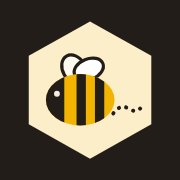
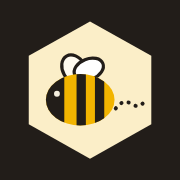
Sharper lane question, 'None of these fit', and 'What fixed it?' on saved troubleshoots
- Lane question now has a cut-membrane option and pushes the right causes
  for saturation (all lanes: exposure/antibody; some lanes: loading)
- Every question offers 'None of these fit', which changes nothing
- Saved troubleshoots can record what actually fixed the problem
- Buzz trail centred on the lower half of the tail

Claude-Session: https://claude.ai/code/session_018z6rVaDbAZwchyhegu3w2y

Changed region(s): [[0.6111, 0.5556, 0.8056, 0.6389]]

diff --git a/index.html b/index.html
@@ -22,7 +22,7 @@
 <section class="welcome" id="welcome" aria-labelledby="wtitle">
   <button class="theme-btn" type="button" aria-label="Switch theme"></button>
   <div class="welcome-inner">
-    <svg viewBox="0 0 60 60" class="welcome-logo" aria-hidden="true"><defs><clipPath id="beebody2"><ellipse cx="26" cy="34" rx="14" ry="10.5"/></clipPath></defs><polygon points="30,2 55,16 55,44 30,58 5,44 5,16" style="fill:#FBEEC8"/><g class="bob"><path class="buzz" d="M39.5 39.5 q3 -4 6 -2 t5 0" fill="none" style="stroke:#221D19" stroke-width="1.6" stroke-linecap="round" stroke-dasharray="0.1 3"/><ellipse cx="23.5" cy="21.5" rx="4.6" ry="6.2" transform="rotate(-30 23.5 21.5)" style="fill:#FFFFFF;stroke:#221D19" fill-opacity=".7" stroke-width="1.3"/><ellipse cx="29.5" cy="21.5" rx="6.2" ry="4.2" transform="rotate(-22 29.5 21.5)" style="fill:#FFFFFF;stroke:#221D19" stroke-width="1.3"/><g clip-path="url(#beebody2)"><rect x="10" y="22" width="32" height="24" style="fill:#F2B400"/><rect x="10" y="22" width="9.5" height="24" style="fill:#221D19"/><rect x="24.5" y="22" width="3.8" height="24" style="fill:#221D19"/><rect x="32" y="22" width="3.8" height="24" style="fill:#221D19"/></g><circle cx="16.5" cy="31.5" r="1.2" style="fill:#F4EEDF"/></g></svg>
+    <svg viewBox="0 0 60 60" class="welcome-logo" aria-hidden="true"><defs><clipPath id="beebody2"><ellipse cx="26" cy="34" rx="14" ry="10.5"/></clipPath></defs><polygon points="30,2 55,16 55,44 30,58 5,44 5,16" style="fill:#FBEEC8"/><g class="bob"><path class="buzz" d="M40.5 37.5 q3 -4 6 -2 t5 0" fill="none" style="stroke:#221D19" stroke-width="1.6" stroke-linecap="round" stroke-dasharray="0.1 3"/><ellipse cx="23.5" cy="21.5" rx="4.6" ry="6.2" transform="rotate(-30 23.5 21.5)" style="fill:#FFFFFF;stroke:#221D19" fill-opacity=".7" stroke-width="1.3"/><ellipse cx="29.5" cy="21.5" rx="6.2" ry="4.2" transform="rotate(-22 29.5 21.5)" style="fill:#FFFFFF;stroke:#221D19" stroke-width="1.3"/><g clip-path="url(#beebody2)"><rect x="10" y="22" width="32" height="24" style="fill:#F2B400"/><rect x="10" y="22" width="9.5" height="24" style="fill:#221D19"/><rect x="24.5" y="22" width="3.8" height="24" style="fill:#221D19"/><rect x="32" y="22" width="3.8" height="24" style="fill:#221D19"/></g><circle cx="16.5" cy="31.5" r="1.2" style="fill:#F4EEDF"/></g></svg>
     <h1 id="wtitle">Bench <span>Bee</span></h1>
     <p class="tag">A little buzz of help at the bench.</p>
     <div class="tech-pick" role="group" aria-label="Choose a technique">
@@ -37,7 +37,7 @@
 
 <div class="wrap" hidden>
   <header class="appbar">
-    <a class="homelink" href="#" aria-label="Back to start"><svg viewBox="0 0 60 60" aria-hidden="true"><defs><clipPath id="beebody"><ellipse cx="26" cy="34" rx="14" ry="10.5"/></clipPath></defs><polygon points="30,2 55,16 55,44 30,58 5,44 5,16" style="fill:#FBEEC8"/><path d="M39.5 39.5 q3 -4 6 -2 t5 0" fill="none" style="stroke:#221D19" stroke-width="1.6" stroke-linecap="round" stroke-dasharray="0.1 3"/><ellipse cx="23.5" cy="21.5" rx="4.6" ry="6.2" transform="rotate(-30 23.5 21.5)" style="fill:#FFFFFF;stroke:#221D19" fill-opacity=".7" stroke-width="1.3"/><ellipse cx="29.5" cy="21.5" rx="6.2" ry="4.2" transform="rotate(-22 29.5 21.5)" style="fill:#FFFFFF;stroke:#221D19" stroke-width="1.3"/><g clip-path="url(#beebody)"><rect x="10" y="22" width="32" height="24" style="fill:#F2B400"/><rect x="10" y="22" width="9.5" height="24" style="fill:#221D19"/><rect x="24.5" y="22" width="3.8" height="24" style="fill:#221D19"/><rect x="32" y="22" width="3.8" height="24" style="fill:#221D19"/></g><circle cx="16.5" cy="31.5" r="1.2" style="fill:#F4EEDF"/></svg><span class="appname">Bench <span>Bee</span></span></a>
+    <a class="homelink" href="#" aria-label="Back to start"><svg viewBox="0 0 60 60" aria-hidden="true"><defs><clipPath id="beebody"><ellipse cx="26" cy="34" rx="14" ry="10.5"/></clipPath></defs><polygon points="30,2 55,16 55,44 30,58 5,44 5,16" style="fill:#FBEEC8"/><path d="M40.5 37.5 q3 -4 6 -2 t5 0" fill="none" style="stroke:#221D19" stroke-width="1.6" stroke-linecap="round" stroke-dasharray="0.1 3"/><ellipse cx="23.5" cy="21.5" rx="4.6" ry="6.2" transform="rotate(-30 23.5 21.5)" style="fill:#FFFFFF;stroke:#221D19" fill-opacity=".7" stroke-width="1.3"/><ellipse cx="29.5" cy="21.5" rx="6.2" ry="4.2" transform="rotate(-22 29.5 21.5)" style="fill:#FFFFFF;stroke:#221D19" stroke-width="1.3"/><g clip-path="url(#beebody)"><rect x="10" y="22" width="32" height="24" style="fill:#F2B400"/><rect x="10" y="22" width="9.5" height="24" style="fill:#221D19"/><rect x="24.5" y="22" width="3.8" height="24" style="fill:#221D19"/><rect x="32" y="22" width="3.8" height="24" style="fill:#221D19"/></g><circle cx="16.5" cy="31.5" r="1.2" style="fill:#F4EEDF"/></svg><span class="appname">Bench <span>Bee</span></span></a>
     <span class="tech-chip">Western blot</span>
     <a class="icon-btn" href="#saved" aria-label="Saved troubleshoots"><svg viewBox="0 0 24 24" fill="none" stroke="currentColor" stroke-width="2" stroke-linejoin="round" aria-hidden="true"><path d="M6 3.5h12v17l-6-4-6 4z"/></svg></a>
     <button class="theme-btn" type="button" aria-label="Switch theme"></button>
@@ -78,7 +78,7 @@
 
 <section class="saved-view wrap-saved" id="savedView" hidden aria-labelledby="savedTitle">
   <header class="appbar">
-    <a class="homelink" href="#" aria-label="Back to start"><svg viewBox="0 0 60 60" aria-hidden="true"><defs><clipPath id="beebody3"><ellipse cx="26" cy="34" rx="14" ry="10.5"/></clipPath></defs><polygon points="30,2 55,16 55,44 30,58 5,44 5,16" style="fill:#FBEEC8"/><path d="M39.5 39.5 q3 -4 6 -2 t5 0" fill="none" style="stroke:#221D19" stroke-width="1.6" stroke-linecap="round" stroke-dasharray="0.1 3"/><ellipse cx="23.5" cy="21.5" rx="4.6" ry="6.2" transform="rotate(-30 23.5 21.5)" style="fill:#FFFFFF;stroke:#221D19" fill-opacity=".7" stroke-width="1.3"/><ellipse cx="29.5" cy="21.5" rx="6.2" ry="4.2" transform="rotate(-22 29.5 21.5)" style="fill:#FFFFFF;stroke:#221D19" stroke-width="1.3"/><g clip-path="url(#beebody3)"><rect x="10" y="22" width="32" height="24" style="fill:#F2B400"/><rect x="10" y="22" width="9.5" height="24" style="fill:#221D19"/><rect x="24.5" y="22" width="3.8" height="24" style="fill:#221D19"/><rect x="32" y="22" width="3.8" height="24" style="fill:#221D19"/></g><circle cx="16.5" cy="31.5" r="1.2" style="fill:#F4EEDF"/></svg><span class="appname">Bench <span>Bee</span></span></a>
+    <a class="homelink" href="#" aria-label="Back to start"><svg viewBox="0 0 60 60" aria-hidden="true"><defs><clipPath id="beebody3"><ellipse cx="26" cy="34" rx="14" ry="10.5"/></clipPath></defs><polygon points="30,2 55,16 55,44 30,58 5,44 5,16" style="fill:#FBEEC8"/><path d="M40.5 37.5 q3 -4 6 -2 t5 0" fill="none" style="stroke:#221D19" stroke-width="1.6" stroke-linecap="round" stroke-dasharray="0.1 3"/><ellipse cx="23.5" cy="21.5" rx="4.6" ry="6.2" transform="rotate(-30 23.5 21.5)" style="fill:#FFFFFF;stroke:#221D19" fill-opacity=".7" stroke-width="1.3"/><ellipse cx="29.5" cy="21.5" rx="6.2" ry="4.2" transform="rotate(-22 29.5 21.5)" style="fill:#FFFFFF;stroke:#221D19" stroke-width="1.3"/><g clip-path="url(#beebody3)"><rect x="10" y="22" width="32" height="24" style="fill:#F2B400"/><rect x="10" y="22" width="9.5" height="24" style="fill:#221D19"/><rect x="24.5" y="22" width="3.8" height="24" style="fill:#221D19"/><rect x="32" y="22" width="3.8" height="24" style="fill:#221D19"/></g><circle cx="16.5" cy="31.5" r="1.2" style="fill:#F4EEDF"/></svg><span class="appname">Bench <span>Bee</span></span></a>
     <button class="theme-btn" type="button" aria-label="Switch theme"></button>
   </header>
   <div class="sec-head">

diff --git a/app.js b/app.js
@@ -248,6 +248,7 @@ function evaluate() {
     (fits[cid] = fits[cid] || []).push(sy.name);
   }));
   validAnswers().forEach(qid => {
+    if (state.answers[qid] < 0) return; // "None of these fit" changes nothing
     const o = Q[qid].opts[state.answers[qid]];
     Object.entries(o.e).forEach(([cid, v]) => {
       if (!(cid in sc)) return;
@@ -333,6 +334,8 @@ function renderBench() {
   renderQuestion(); renderHistory(); renderCauses();
 }
 
+const ansLabel = qid => state.answers[qid] < 0 ? "None of these fit" : Q[qid].opts[state.answers[qid]].l;
+
 function answer(qid, oi) {
   state.answers[qid] = oi;
   state.order = state.order.filter(q => q !== qid).concat(qid);
@@ -362,7 +365,8 @@ function renderQuestion() {
       <span class="label">Question ${n}</span>
       <p class="qtext">${q.q}</p>
       ${q.tip ? `<p class="qtip">${q.tip}</p>` : ""}
-      <div class="answers">${q.opts.map((o, oi) => `<button class="ans" type="button" data-o="${oi}">${o.l}</button>`).join("")}</div>
+      <div class="answers">${q.opts.map((o, oi) => `<button class="ans" type="button" data-o="${oi}">${o.l}</button>`).join("")}
+        <button class="ans nofit" type="button" data-o="-1">None of these fit</button></div>
       <div class="qnav">
         <button class="linkbtn" type="button" id="back" ${state.order.length ? "" : "disabled"}>← Back</button>
         <button class="linkbtn" type="button" id="skip">Skip, I don't know</button>
@@ -379,7 +383,7 @@ function renderQuestion() {
 function renderHistory() {
   const done = validAnswers();
   $("#history").innerHTML = done.length ? `<span class="label">Your answers</span>
-    <ol class="hist">${done.map(qid => `<li><span class="hq">${Q[qid].q}</span><span class="ha">${Q[qid].opts[state.answers[qid]].l}</span>
+    <ol class="hist">${done.map(qid => `<li><span class="hq">${Q[qid].q}</span><span class="ha">${ansLabel(qid)}</span>
       <button class="linkbtn" type="button" data-q="${qid}">Change</button></li>`).join("")}</ol>` : "";
   document.querySelectorAll(".hist .linkbtn").forEach(b => b.addEventListener("click", () => {
     const qid = b.dataset.q;
@@ -451,7 +455,7 @@ function renderCauses() {
 
 function copySummary() {
   const { live, ruled } = evaluate();
-  const ans = validAnswers().map(q => `- ${Q[q].q} ${Q[q].opts[state.answers[q]].l}`);
+  const ans = validAnswers().map(q => `- ${Q[q].q} ${ansLabel(q)}`);
   const txt = [
     `Western blot troubleshooting: ${selected().map(s => s.name).join(", ")}`,
     `Date: ${new Date().toLocaleDateString()}`,
@@ -488,6 +492,8 @@ function openSaveForm() {
       <input id="saveName" type="text" maxlength="80" value="${esc(name)}">
       <label for="saveNote">Note <span>(optional)</span></label>
       <textarea id="saveNote" rows="3" maxlength="600" placeholder="What did you try, what happened next?">${existing ? esc(existing.note || "") : ""}</textarea>
+      <label for="saveFix">What actually fixed it? <span>(fill in later if you don't know yet)</span></label>
+      <input id="saveFix" type="text" maxlength="200" placeholder="e.g. Fresh ECL, or diluted the secondary 1:10,000" value="${existing ? esc(existing.fix || "") : ""}">
       <div class="actions"><button class="btn save" type="submit">${existing ? "Update" : "Save"}</button><button class="btn ghost" type="button" id="saveCancel">Cancel</button></div>
     </form>`;
   $("#saveName").focus();
@@ -500,6 +506,7 @@ function openSaveForm() {
       date: new Date().toISOString(),
       name: $("#saveName").value.trim() || name,
       note: $("#saveNote").value.trim(),
+      fix: $("#saveFix").value.trim(),
       tech: "western-blot",
       sel: [...state.sel],
       answers: { ...state.answers },
@@ -537,6 +544,7 @@ function renderSaved() {
       <div class="chosen">${names.map(n => `<span class="chip">${n}</span>`).join("")}</div>
       <p class="si-lead">${s.top ? `Top cause: <b>${esc(s.top)}</b> · ` : ""}${s.order.length} answer${s.order.length === 1 ? "" : "s"}</p>
       ${s.note ? `<p class="si-note">${esc(s.note)}</p>` : ""}
+      ${s.fix ? `<p class="si-fix"><span class="label">Fixed by</span>${esc(s.fix)}</p>` : `<p class="si-open">Not solved yet. Open it and update when you find the fix.</p>`}
       <div class="si-actions"><button class="btn save" type="button" data-act="open">Open</button><button class="linkbtn" type="button" data-act="del">Delete</button></div>
     </article>`;
   }).join("");

diff --git a/data/western-blot.js b/data/western-blot.js
@@ -197,10 +197,11 @@ const Q = {
     { l: "New samples or cells", e: { target_low: 3, degradation: 2, overload: 1, underload: 1, unequal_load: 1, dna: 1, salt: 1, lc_biology: 1 } },
     { l: "Gel or transfer setup", e: { transfer_fail: 3, contact: 2, bubbles: 1, heat: 2, large_transfer: 1, wells_gel: 1, running_buffer: 1 } },
     { l: "Nothing I know of", e: {} }] },
-  lanes: { q: "Is the problem in every lane, or only some?", opts: [
-    { l: "Every lane, loading control too", e: { transfer_fail: 2, detect_fail: 2, expo_high: 1, ab_high: 1, contact: 1, block_low: 1, wash_low: 1, substrate_old: 1, unequal_load: -2, target_low: -1 } },
-    { l: "Every lane, loading control is fine", e: { target_low: 2, primary_inactive: 2, primary_dilute: 2, detect_fail: -3, transfer_fail: -2 } },
-    { l: "Only some lanes", e: { target_low: 2, unequal_load: 3, underload: 2, degradation: 2, salt: 2, overload: 1, detect_fail: "out", transfer_fail: -3 } }] },
+  lanes: { q: "Is the problem in every lane, or only some?", tip: "If you cut the membrane and probed the strips with different antibodies, pick the last option.", opts: [
+    { l: "Every lane, loading control too", e: { transfer_fail: 2, detect_fail: 2, expo_high: 2, ab_high: 2, contact: 1, block_low: 1, wash_low: 1, substrate_old: 1, substrate_used: 1, unequal_load: -2, target_low: -1, overload: -1 } },
+    { l: "Every lane, loading control is fine", e: { target_low: 2, primary_inactive: 2, primary_dilute: 2, ab_high: 1, detect_fail: -3, transfer_fail: -2 } },
+    { l: "Only some lanes", e: { target_low: 2, unequal_load: 3, underload: 2, degradation: 2, salt: 2, overload: 3, quant_range: 1, detect_fail: "out", transfer_fail: -3, expo_high: -1 } },
+    { l: "Strips look different (membrane was cut)", e: { ab_high: 2, primary_dilute: 1, primary_inactive: 1, nonspec_primary: 1, target_low: 1, overload: 1, quant_range: 1, detect_fail: -2, transfer_fail: -1 } }] },
   ladder: { q: "Is the prestained ladder visible on the membrane?", opts: [
     { l: "Yes", e: { transfer_fail: -2 } }, { l: "No", e: { transfer_fail: 4 } }, { l: "Didn't check", e: {} }] },
   ponceau_none: { q: "Did Ponceau S show protein in your sample lanes?", tip: "Ponceau tells you whether protein reached the membrane, before any antibody is involved.", opts: [
@@ -302,7 +303,7 @@ const SYMPTOMS = [
     causes: { primary_dilute: 1.6, target_low: 1.5, large_transfer: 1, underload: 1, substrate_old: 1, block_mask: 0.8, stripped: 0.6, transfer_fail: 0.6 },
     qs: ["lc_strong", "large_target", "primary_time", "substrate_age", "stripped_q"] },
   { id: "saturated", name: "Saturated signal", hint: "Pink or red pixels on the imager",
-    causes: { expo_high: 2, ab_high: 1.5, overload: 1.5, quant_range: 1, substrate_used: 0.6 },
+    causes: { expo_high: 2, ab_high: 1.5, overload: 1.5, quant_range: 1, unequal_load: 0.6, substrate_used: 0.6 },
     qs: ["auto_exp", "load_amount", "rim", "need_quant"] },
   { id: "background", name: "Dark background", hint: "The whole membrane is grey or black",
     causes: { ab_high: 2, block_low: 1.8, wash_low: 1.5, expo_high: 1.2, dry: 0.8, buffers_contam: 0.5, phospho_milk: 0.4 },

diff --git a/styles.css b/styles.css
@@ -285,3 +285,7 @@ textarea.copybox { width: 100%; min-height: 140px; font-family: var(--mono); fon
 .pb-saved img { width: 120px; max-width: 40%; border-radius: 8px; flex: none; }
 .si-photo { width: 100%; max-height: 180px; object-fit: cover; border-radius: 8px; }
 .pb-findings .maybe { font-style: normal; font-family: var(--mono); font-size: 11px; text-transform: uppercase; letter-spacing: .05em; padding: 1px 6px; border-radius: 999px; background: var(--chip); color: var(--muted); }
+.ans.nofit { background: transparent; border-style: dashed; color: var(--muted); font-weight: 400; }
+.si-fix { font-size: 14px; padding: 8px 12px; border-radius: 8px; background: var(--accent-soft); display: grid; gap: 2px; overflow-wrap: anywhere; }
+.si-fix .label { color: var(--accent); }
+.si-open { font-size: 13px; color: var(--muted); font-style: italic; }

diff --git a/sw.js b/sw.js
@@ -1,6 +1,6 @@
 /* Bench Bee service worker: makes the app work offline.
    When you change any file, bump VERSION so phones pick up the new version. */
-const VERSION = "bench-bee-v20";
+const VERSION = "bench-bee-v21";
 const APP_FILES = [
   "./",
   "index.html",
